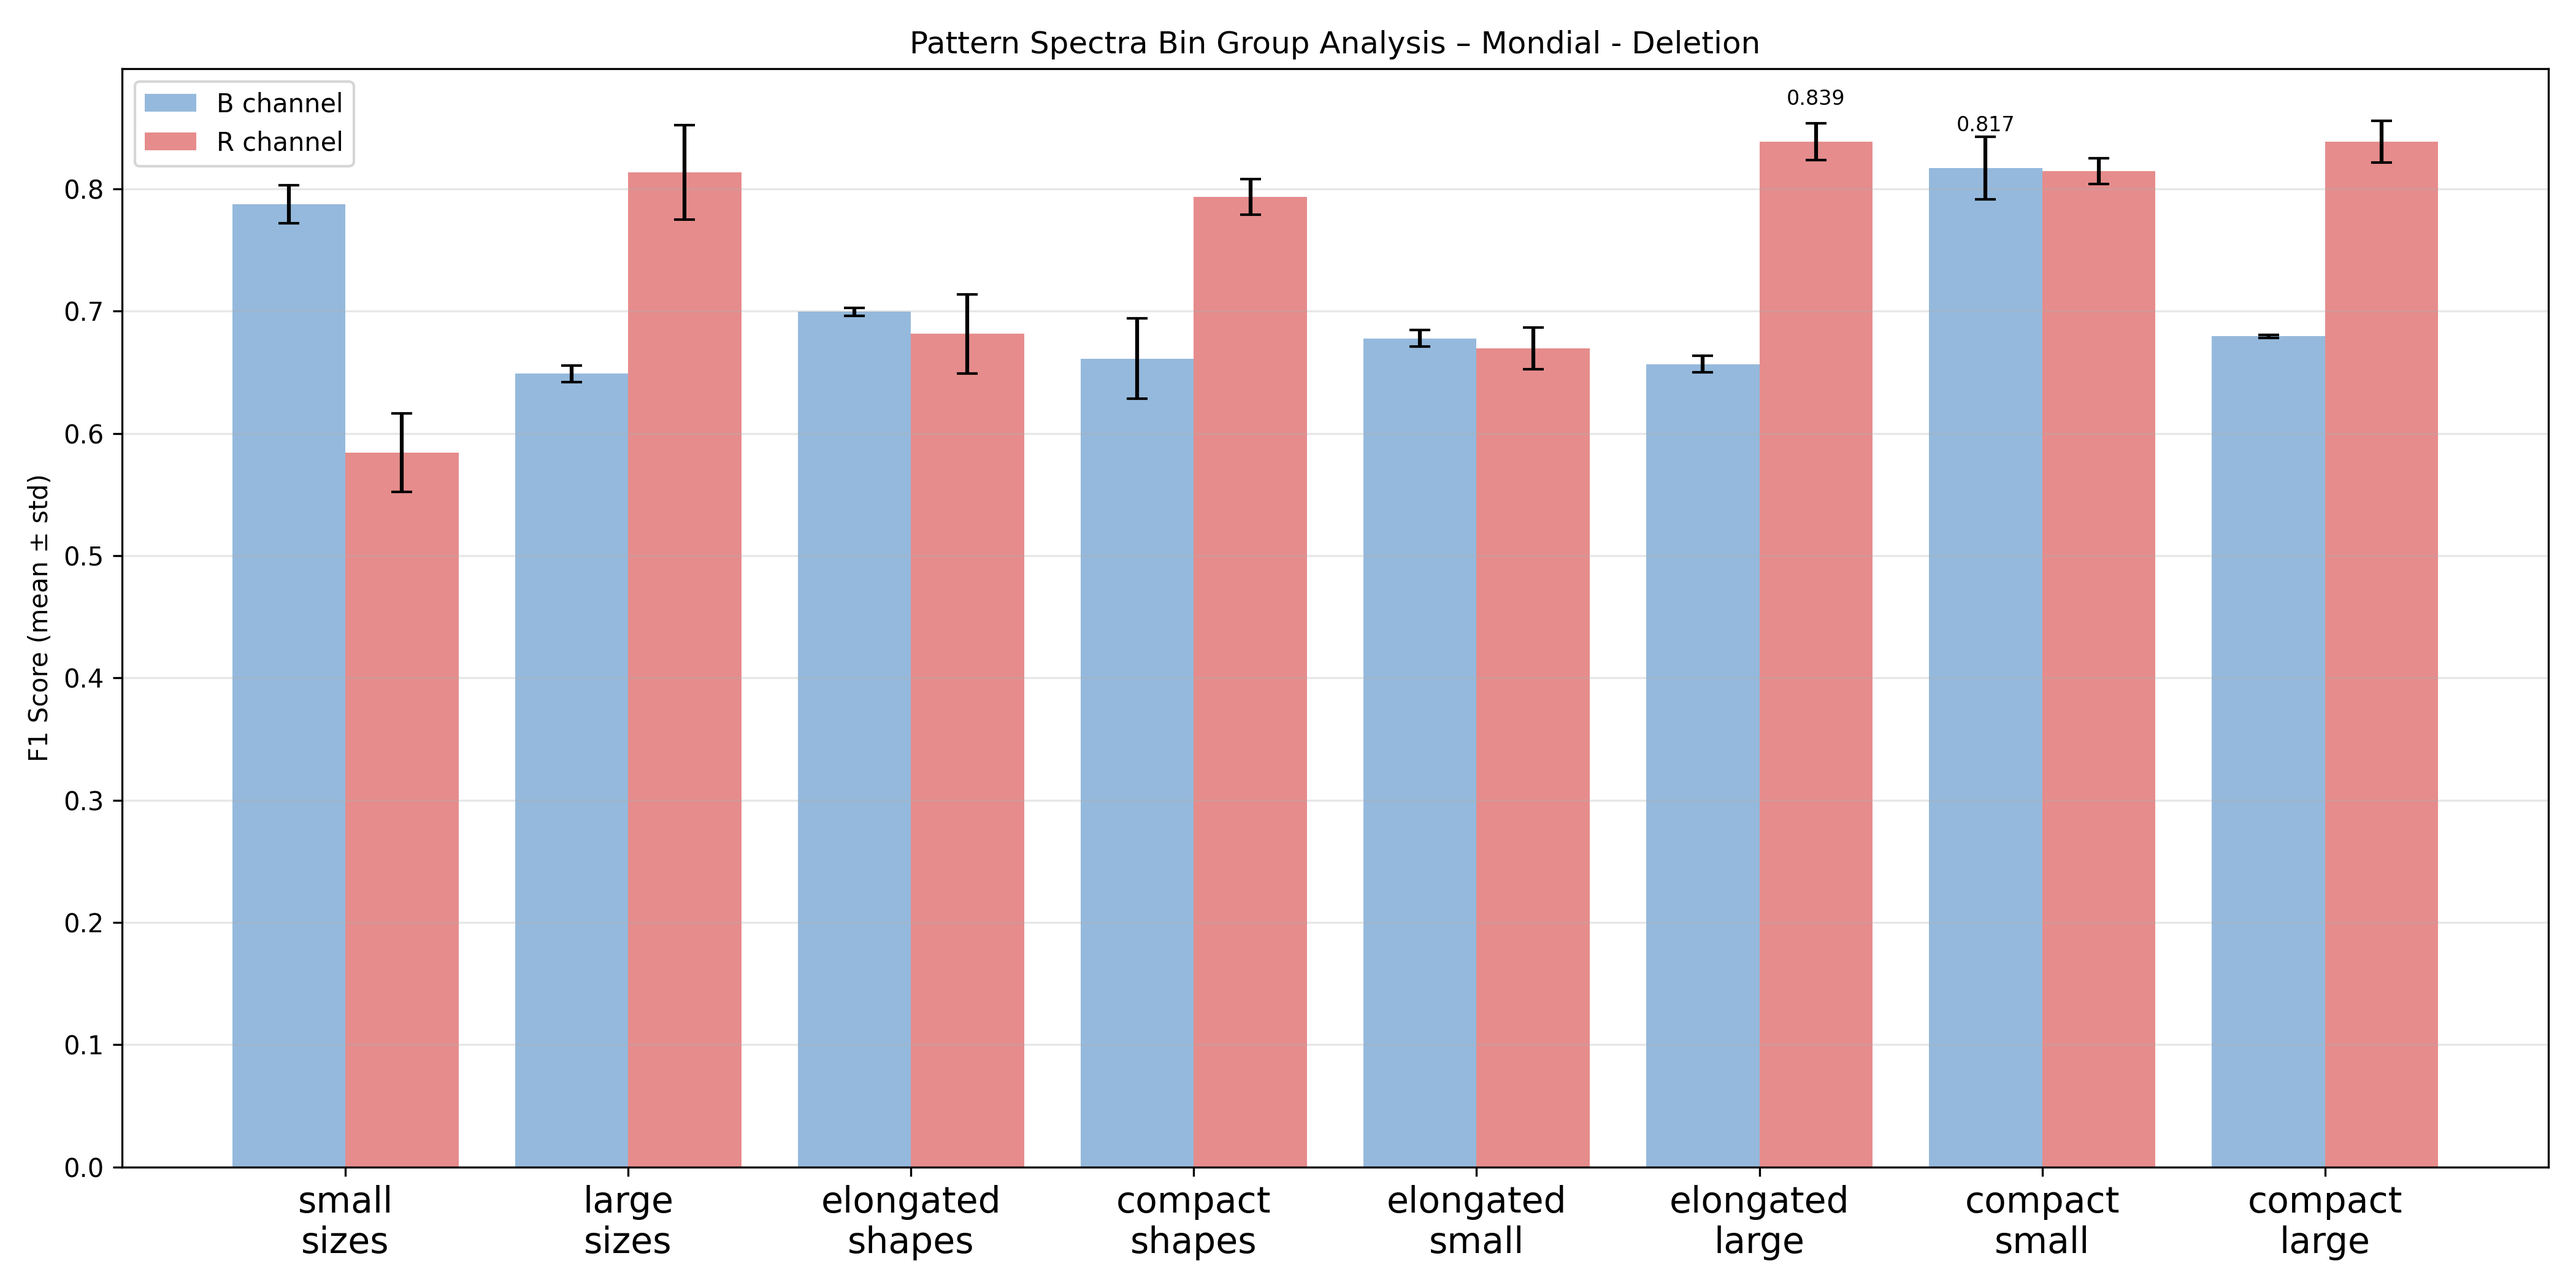
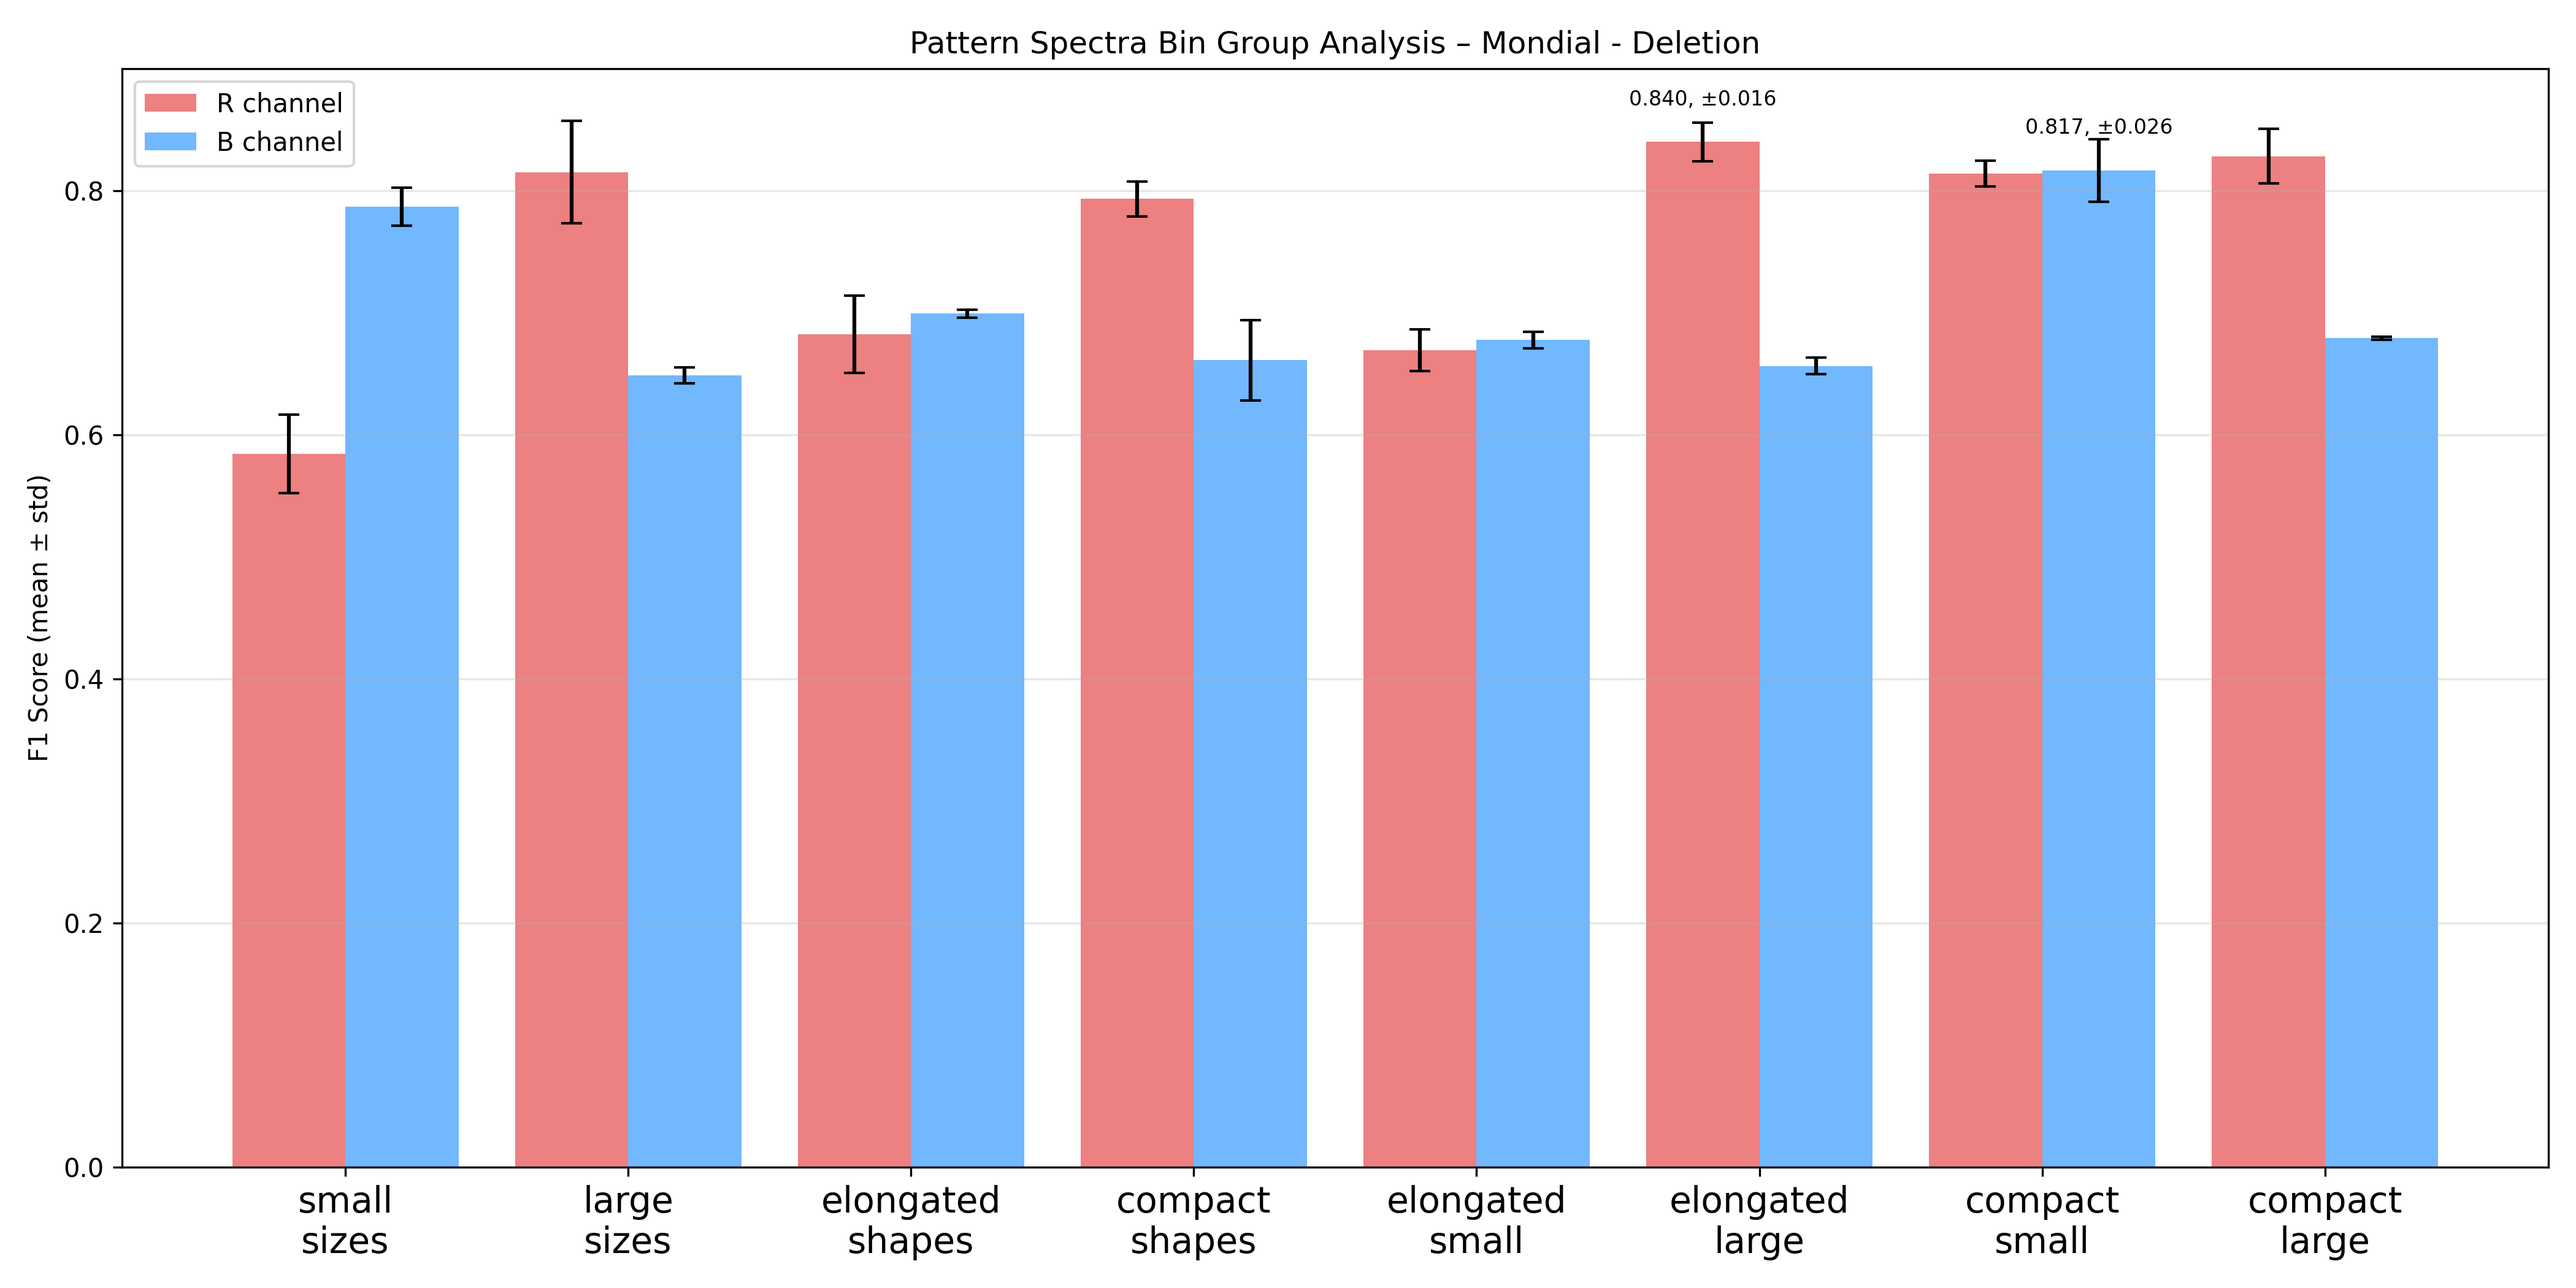
fixed plots with new results

diff --git a/Feature_Extraction/run_bin_analysis.py b/Feature_Extraction/run_bin_analysis.py
@@ -269,7 +269,7 @@ def main():
     # print label counts per split
     for label_name in LABEL_MAP:
         train_idx, test_idx = label_train_test_indices[label_name]
-        print(f"[DEBUG] Label '{label_name}' -> Train: {len(train_idx)}, Test: {len(test_idx)}")
+        print(f" Label '{label_name}' -> Train: {len(train_idx)}, Test: {len(test_idx)}")
 
 
     for label_name in LABEL_MAP:
@@ -289,13 +289,6 @@ def main():
 
     small_size_bins = list(range(0, 6))   # 0..5
     large_size_bins = list(range(6, 11))  # 6..10
-
-    grouped_blocks = [
-        (elongated_shape_bins, small_size_bins), # elongated + small
-        (elongated_shape_bins, large_size_bins), # elongated + large
-        (compact_shape_bins, small_size_bins),   # compact + small
-        (compact_shape_bins, large_size_bins),   # compact + large
-    ]
 
     block_names = ["elongated_small", "elongated_large", "compact_small", "compact_large"]
 
@@ -326,6 +319,14 @@ def main():
         "shape_bins": compact_shape_bins,
         "size_bins": small_size_bins + large_size_bins
     })
+
+    
+    grouped_blocks = [
+        (elongated_shape_bins, small_size_bins), # elongated + small
+        (elongated_shape_bins, large_size_bins), # elongated + large
+        (compact_shape_bins, small_size_bins),   # compact + small
+        (compact_shape_bins, large_size_bins),   # compact + large
+    ]
 
     # blocks - combined shape and size
     for name, (s_bins, z_bins) in zip(block_names, grouped_blocks):
@@ -445,7 +446,7 @@ def main():
         best_subset = max(valid_results, key=lambda rr: rr["f1_mean_across_iters"])
         print(f"\nBest subset for channel {ch}: {best_subset['kind']} (avg F1={best_subset['f1_mean_across_iters']:.4f})")
 
-        # Retrain on entire train set using best subset and evaluate on held-out test set
+        # --------- Retrain on entire train set using best subset and evaluate on held-out test set using best bin combos -----------
         s_bins = best_subset["shape_bins"]
         z_bins = best_subset["size_bins"]
 
@@ -480,7 +481,7 @@ def main():
         yte_final = np.array(yte_final_list, dtype=np.int64)
 
 
-        print("\n[DEBUG] FINAL TRAIN/TEST AFTER BIN FILTER:")
+        print("\nFINAL TRAIN/TEST AFTER BIN FILTER:")
         print("Train Healthy:   ", np.sum(np.array(ytr_final) == 0))
         print("Train Unhealthy: ", np.sum(np.array(ytr_final) == 1))
         print("Test Healthy:    ", np.sum(np.array(yte_final) == 0))
@@ -532,9 +533,9 @@ def main():
 
     # -------  FINAL EVALUATION WITH ALL CHANNELS AND BEST SUBSETS-------
 
-    print("\n============================================================")
+    print("\n-------------------------------------------------------------")
     print("FINAL MULTI-CHANNEL EVALUATION WITH COMBINED BEST SUBSETS")
-    print("============================================================")
+    print("----------------------------------------------------------------")
 
     # Load best subsets per channel (from saved per-channel pkls)
     all_best = {}
@@ -558,9 +559,8 @@ def main():
     Xte_final = []
     yte_final = []
 
-    # -------------------------
+
     # BUILD FINAL TRAIN FEATURES
-    # -------------------------
     for label_idx, label_name in enumerate(LABEL_MAP.keys()):
 
         # Number of train samples for this label
@@ -591,9 +591,7 @@ def main():
                 Xtr_final.append(np.concatenate(fv_parts))
                 ytr_final.append(label_idx)
 
-    # ------------------------
     # BUILD FINAL TEST FEATURES
-    # ------------------------
     for label_idx, label_name in enumerate(LABEL_MAP.keys()):
 
         n_test = len(X_test_per_label[label_idx])

diff --git a/Feature_Extraction/plot_bin_results.py b/Feature_Extraction/plot_bin_results.py
@@ -3,7 +3,7 @@ import pickle
 import numpy as np
 import matplotlib.pyplot as plt
 
-EVAL_MODE = "insertion"  # either "deletion" or "insertion"
+EVAL_MODE = "deletion"  
 
 VARIANTS = ["Rudolph", "Mondial", "Spunta", "Fontane"] 
 RESULTS_DIR = "Bin_Analysis_Results"     # folder with PKLs
@@ -67,9 +67,6 @@ def plot_variant(variant):
     os.makedirs(PLOT_DIR, exist_ok=True)
 
     channels = find_channels_for_variant(variant)
-
-    print(f"Variant {variant} - channels found: {channels}")
-
     data = collect_variant_data(variant, channels)
 
     x = np.arange(len(BIN_GROUPS))
@@ -107,12 +104,15 @@ def plot_variant(variant):
     # annotate bars with mean f1 only for the highest mean F1 per channel
     for i, ch in enumerate(channels):
         means = []
+        stds = []
         for kind in BIN_GROUPS:
             if ch in data[kind]:
                 m, s = data[kind][ch]
                 means.append(m)
+                stds.append(s)
             else:
                 means.append(np.nan)
+                stds.append(0)
 
         max_mean_idx = np.nanargmax(means)
         max_mean = means[max_mean_idx]
@@ -122,10 +122,12 @@ def plot_variant(variant):
         plt.text(
             x[max_mean_idx] + offset,
             max_mean + 0.03,
-            f"{max_mean:.3f}",
+            f"{max_mean:.3f}, ±{stds[max_mean_idx]:.3f}",
             ha="center",
             fontsize=8
         )
+
+    print("mean F1 and STD per best bin group per channel:", {ch: (data[BIN_GROUPS[np.nanargmax([data[kind][ch][0] if ch in data[kind] else np.nan for kind in BIN_GROUPS])]][ch]) for ch in channels})
 
     bin_labels = [label.replace("_", "\n") for label in BIN_GROUPS]
     
